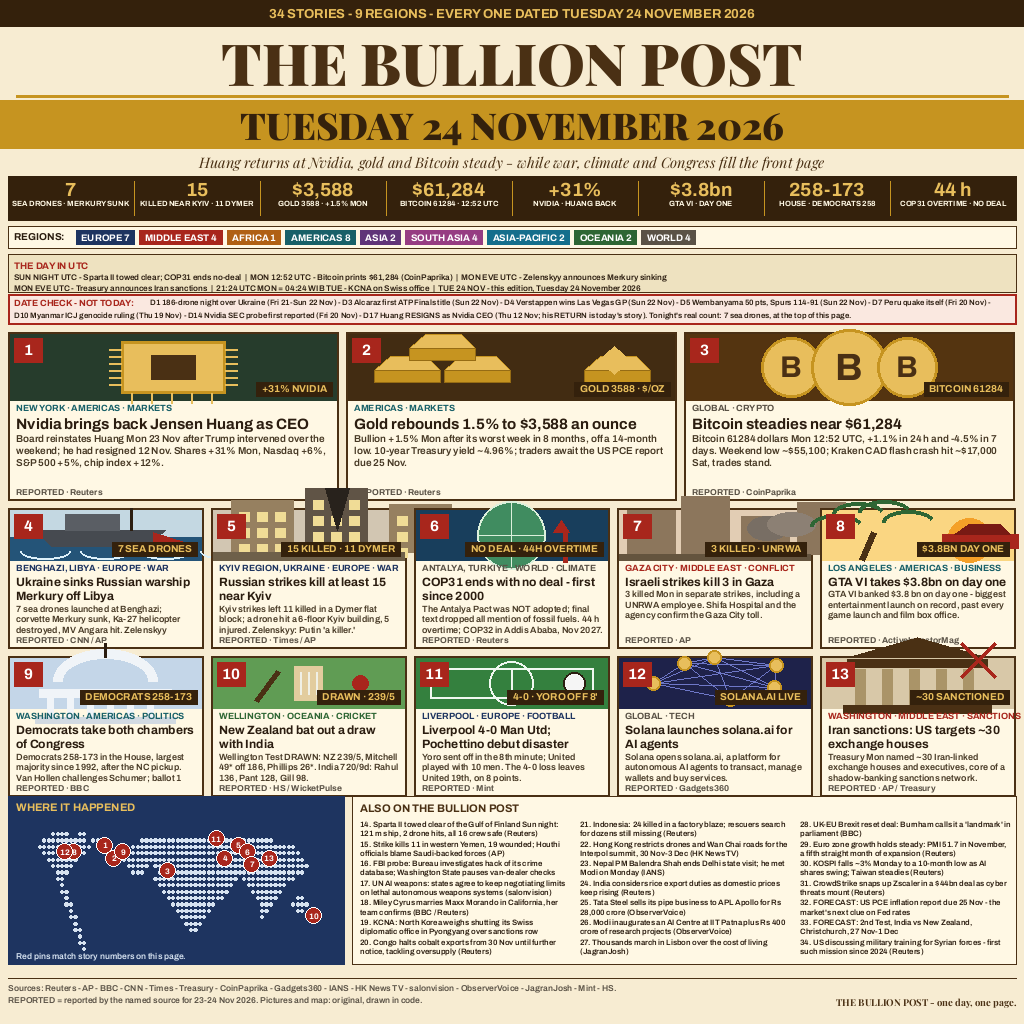
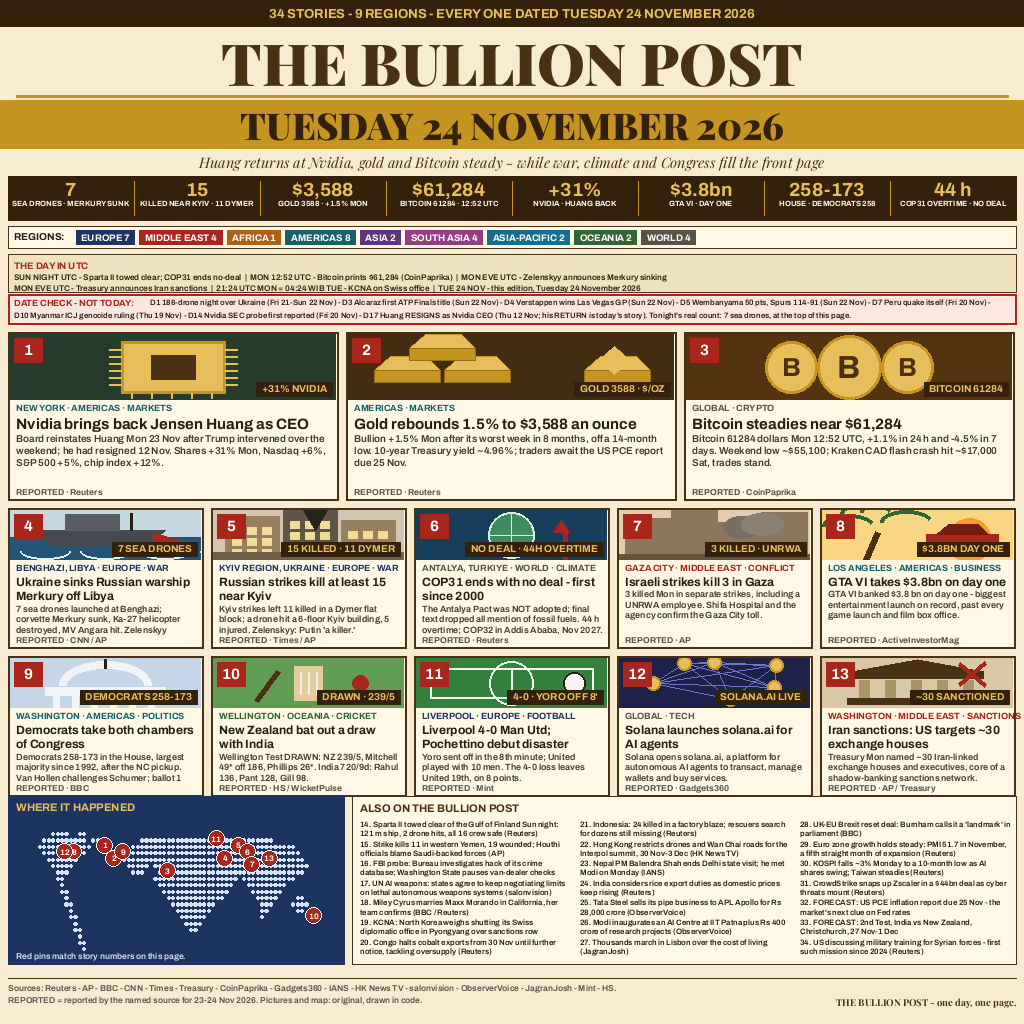
NI24 wave 2: fix scene overflow craft defects
Scenes are now rendered on a per-card layer and pasted, so no scene element can paint outside its own card strip. Rescaled the flats, bank, dome, globe, coin, palm and skyline geometry that overflowed its strip (Kyiv flats over the Gold source line, Iran bank roof over the GTA source line, bank base bar over its own kicker). Regenerated entry.png; all card text, chips and source lines now fully inside their cards.

diff --git a/compose_bullion.py b/compose_bullion.py
@@ -167,7 +167,7 @@ def scene(d, kind, x, y, w, h):
             d.line([gx - 12, gy + 8 + i * 7, gx, gy + 8 + i * 7], fill=GOLD_L, width=2)
             d.line([gx + gw, gy + 8 + i * 7, gx + gw + 12, gy + 8 + i * 7], fill=GOLD_L, width=2)
         for i in range(5):
-            d.line([gx + 10 + i * 20, gy + gh, gx + 10 + i * 20, gy + gh + 10], fill=GOLD_L, width=2)
+            d.line([gx + 10 + i * 20, gy + gh, gx + 10 + i * 20, gy + gh + 5], fill=GOLD_L, width=2)
     elif kind == "bars":
         d.rectangle([x, y, x + w, y + h], fill=(66, 44, 18))
         for bx, by, s in [(x + 26, y + h - 30, 1), (x + 96, y + h - 30, 1), (x + 61, y + h - 52, 1), (x + w - 90, y + h - 30, 1)]:
@@ -176,7 +176,7 @@ def scene(d, kind, x, y, w, h):
         d.polygon([(x + w - 60, y + 12), (x + w - 44, y + 26), (x + w - 60, y + 40), (x + w - 76, y + 26)], fill=GOLD_L)
     elif kind == "coin":
         d.rectangle([x, y, x + w, y + h], fill=(84, 52, 16))
-        for i, (ox, r) in enumerate([(-58, 30), (0, 38), (58, 30)]):
+        for i, (ox, r) in enumerate([(-58, 26), (0, 32), (58, 26)]):
             d.ellipse([cx + ox - r, cy - r, cx + ox + r, cy + r], fill=GOLD_L, outline=GOLD, width=3)
             d.text((cx + ox, cy), "B", font=F(AR_B, r), fill=BROWN, anchor="mm")
     elif kind == "ship":
@@ -188,51 +188,51 @@ def scene(d, kind, x, y, w, h):
         d.polygon([(hx, hy), (hx + 130, hy), (hx + 112, hy + 16), (hx + 16, hy + 16)], fill=(70, 74, 80))
         d.rectangle([hx + 30, hy - 16, hx + 84, hy], fill=(90, 94, 100))
         d.polygon([(hx + 118, hy + 2), (hx + 150, hy + 12), (hx + 118, hy + 14)], fill=RED)
-        d.line([hx + 96, hy - 22, hx + 96, hy], fill=INK, width=3)
+        d.line([hx + 96, hy - 17, hx + 96, hy], fill=INK, width=3)
     elif kind == "flats":
         d.rectangle([x, y, x + w, y + h], fill=(210, 198, 178))
-        for i, (bx, bh, dmg) in enumerate([(x + 18, 52, False), (x + 92, 64, True), (x + 176, 48, False)]):
-            d.rectangle([bx, y + h - bh - 8, bx + 62, y + h - 8], fill=(150, 128, 96) if not dmg else (96, 84, 70))
+        for i, (bx, bh, dmg) in enumerate([(x + 12, 36, False), (x + 70, 42, True), (x + 128, 32, False)]):
+            d.rectangle([bx, y + h - bh - 8, bx + 54, y + h - 8], fill=(150, 128, 96) if not dmg else (96, 84, 70))
             for r_ in range(3):
                 for c_ in range(3):
-                    wx, wy = bx + 8 + c_ * 18, y + h - bh + 4 + r_ * 16
-                    d.rectangle([wx, wy, wx + 10, wy + 9], fill=(240, 220, 150))
+                    wx, wy = bx + 7 + c_ * 15, y + h - bh + 3 + r_ * 11
+                    d.rectangle([wx, wy, wx + 9, wy + 7], fill=(240, 220, 150))
             if dmg:
                 d.polygon([(bx + 20, y + h - bh - 8), (bx + 44, y + h - bh - 8), (bx + 32, y + h - 30)], fill=(40, 34, 28))
         d.rectangle([x, y + h - 8, x + w, y + h], fill=(110, 96, 74))
     elif kind == "globe":
         d.rectangle([x, y, x + w, y + h], fill=(24, 62, 92))
-        d.ellipse([cx - 34, cy - 34, cx + 34, cy + 34], fill=(64, 140, 96), outline=(220, 240, 220), width=2)
-        d.ellipse([cx - 34, cy - 34, cx + 34, cy + 34], outline=(220, 240, 220), width=1)
-        d.line([cx - 34, cy, cx + 34, cy], fill=(220, 240, 220), width=1)
-        d.line([cx, cy - 34, cx, cy + 34], fill=(220, 240, 220), width=1)
+        d.ellipse([cx - 23, cy - 23, cx + 23, cy + 23], fill=(64, 140, 96), outline=(220, 240, 220), width=2)
+        d.ellipse([cx - 23, cy - 23, cx + 23, cy + 23], outline=(220, 240, 220), width=1)
+        d.line([cx - 23, cy, cx + 23, cy], fill=(220, 240, 220), width=1)
+        d.line([cx, cy - 23, cx, cy + 23], fill=(220, 240, 220), width=1)
         d.polygon([(x + w - 46, y + 10), (x + w - 38, y + 22), (x + w - 54, y + 22)], fill=RED)
         d.rectangle([x + w - 44, y + 22, x + w - 40, y + 52], fill=RED)
     elif kind == "skyline":
         d.rectangle([x, y, x + w, y + h], fill=(226, 205, 180))
-        for i, (bx, bh) in enumerate([(x + 8, 44), (x + 62, 58), (x + 122, 38), (x + 178, 52)]):
-            d.rectangle([bx, y + h - bh - 6, bx + 48, y + h - 6], fill=(140, 118, 92))
-        d.ellipse([x + 128, y + 6, x + 168, y + 30], fill=(120, 110, 100))
-        d.ellipse([x + 148, y + 2, x + 196, y + 26], fill=(140, 128, 116))
+        for i, (bx, bh) in enumerate([(x + 6, 36), (x + 52, 44), (x + 98, 32), (x + 142, 42)]):
+            d.rectangle([bx, y + h - bh - 6, bx + 46, y + h - 6], fill=(140, 118, 92))
+        d.ellipse([x + 104, y + 6, x + 140, y + 28], fill=(120, 110, 100))
+        d.ellipse([x + 122, y + 3, x + 164, y + 25], fill=(140, 128, 116))
         d.rectangle([x, y + h - 6, x + w, y + h], fill=(100, 84, 62))
     elif kind == "palm":
         d.rectangle([x, y, x + w, y + h], fill=(250, 214, 130))
         d.ellipse([x + w - 66, y + 8, x + w - 22, y + 52], fill=(244, 160, 40))
-        d.line([x + 40, y + h, x + 52, y + 22], fill=BROWN, width=6)
-        for a in [(-38, -8), (-16, -20), (10, -22), (34, -12)]:
-            d.arc([x + 52 + a[0] - 26, y + 22 + a[1] - 10, x + 52 + a[0] + 26, y + 22 + a[1] + 14], 180, 340, fill=GREEN, width=4)
-        d.rectangle([x + 120, y + h - 26, x + 196, y + h - 12], fill=RED)
-        d.polygon([(x + 132, y + h - 26), (x + 146, y + h - 36), (x + 178, y + h - 36), (x + 188, y + h - 26)], fill=(120, 26, 20))
-        d.ellipse([x + 132, y + h - 16, x + 146, y + h - 4], fill=INK)
-        d.ellipse([x + 172, y + h - 16, x + 186, y + h - 4], fill=INK)
+        d.line([x + 44, y + h, x + 56, y + 22], fill=BROWN, width=6)
+        for a in [(-30, -8), (-12, -20), (8, -22), (28, -12)]:
+            d.arc([x + 56 + a[0] - 26, y + 22 + a[1] - 10, x + 56 + a[0] + 26, y + 22 + a[1] + 14], 180, 340, fill=GREEN, width=4)
+        d.rectangle([x + 104, y + h - 26, x + 176, y + h - 12], fill=RED)
+        d.polygon([(x + 114, y + h - 26), (x + 126, y + h - 36), (x + 156, y + h - 36), (x + 166, y + h - 26)], fill=(120, 26, 20))
+        d.ellipse([x + 114, y + h - 16, x + 128, y + h - 4], fill=INK)
+        d.ellipse([x + 152, y + h - 16, x + 166, y + h - 4], fill=INK)
     elif kind == "dome":
         d.rectangle([x, y, x + w, y + h], fill=(196, 214, 232))
-        d.arc([cx - 52, cy - 34, cx + 52, cy + 30], 180, 360, fill=(240, 244, 248), width=10)
-        d.rectangle([cx - 66, cy + 6, cx + 66, cy + 14], fill=(240, 244, 248))
+        d.arc([cx - 46, cy - 22, cx + 46, cy + 26], 180, 360, fill=(240, 244, 248), width=8)
+        d.rectangle([cx - 60, cy + 4, cx + 60, cy + 12], fill=(240, 244, 248))
         for i in range(6):
-            d.rectangle([cx - 58 + i * 20, cy + 14, cx - 52 + i * 20, cy + 34], fill=(240, 244, 248))
-        d.rectangle([cx - 70, cy + 34, cx + 70, cy + 40], fill=(210, 218, 226))
-        d.line([cx, cy - 40, cx, cy - 26], fill=INK, width=3)
+            d.rectangle([cx - 52 + i * 19, cy + 12, cx - 46 + i * 19, cy + 30], fill=(240, 244, 248))
+        d.rectangle([cx - 64, cy + 30, cx + 64, cy + 36], fill=(210, 218, 226))
+        d.line([cx, cy - 24, cx, cy - 15], fill=INK, width=3)
     elif kind == "cricket":
         d.rectangle([x, y, x + w, y + h], fill=(96, 156, 84))
         d.rectangle([cx - 14, y + 8, cx + 14, y + h - 8], fill=(226, 204, 158))
@@ -249,7 +249,7 @@ def scene(d, kind, x, y, w, h):
         d.ellipse([cx + 52, cy - 11, cx + 74, cy + 11], fill=(245, 245, 245), outline=INK, width=2)
     elif kind == "nodes":
         d.rectangle([x, y, x + w, y + h], fill=(30, 34, 74))
-        pts = [(x + 34, cy), (cx - 30, cy - 20), (cx + 16, cy + 16), (cx + 62, cy - 18), (x + w - 36, cy + 4), (cx, cy - 26)]
+        pts = [(x + 34, cy), (cx - 30, cy - 20), (cx + 16, cy + 16), (cx + 62, cy - 18), (x + w - 36, cy + 4), (cx, cy - 21)]
         for i in range(len(pts)):
             for j in range(i + 1, len(pts)):
                 d.line([pts[i], pts[j]], fill=(110, 120, 200), width=1)
@@ -257,20 +257,25 @@ def scene(d, kind, x, y, w, h):
             d.ellipse([p[0] - 7, p[1] - 7, p[0] + 7, p[1] + 7], fill=GOLD_L, outline=GOLD, width=2)
     elif kind == "bank":
         d.rectangle([x, y, x + w, y + h], fill=(216, 200, 168))
-        d.polygon([(cx - 70, cy - 26), (cx + 70, cy - 26), (cx, cy - 46)], fill=BROWN)
-        d.rectangle([cx - 70, cy - 24, cx + 70, cy - 16], fill=BROWN)
+        d.polygon([(cx - 66, cy - 12), (cx + 66, cy - 12), (cx, cy - 24)], fill=BROWN)
+        d.rectangle([cx - 66, cy - 11, cx + 66, cy - 5], fill=BROWN)
         for i in range(5):
-            d.rectangle([cx - 62 + i * 27, cy - 14, cx - 52 + i * 27, cy + 22], fill=(170, 148, 104))
-        d.rectangle([cx - 74, cy + 22, cx + 74, cy + 30], fill=BROWN)
-        d.line([cx + 44, cy - 40, cx + 78, cy - 6], fill=RED, width=4)
-        d.line([cx + 78, cy - 40, cx + 44, cy - 6], fill=RED, width=4)
+            d.rectangle([cx - 58 + i * 26, cy - 3, cx - 48 + i * 26, cy + 15], fill=(170, 148, 104))
+        d.rectangle([cx - 70, cy + 15, cx + 70, cy + 21], fill=BROWN)
+        d.line([cx + 42, cy - 20, cx + 68, cy + 2], fill=RED, width=4)
+        d.line([cx + 68, cy - 20, cx + 42, cy + 2], fill=RED, width=4)
 
 # ---------------- CARD ----------------
-def card(d, key, disp, x, y, w, h, lead=False):
+def card(img, d, key, disp, x, y, w, h, lead=False):
     num, bucket, kick, head, deck, chip, tag, sc = CARDS[key]
     d.rectangle([x, y, x + w, y + h], fill=CREAM, outline=BROWN, width=2)
     sh = 66 if lead else 50
-    scene(d, sc, x + 2, y + 2, w - 4, sh)
+    # scene is rendered on its own layer and pasted: nothing a scene draws
+    # can ever escape its strip and paint over a neighbouring card
+    layer = Image.new("RGB", (w - 4, sh), PAPER)
+    scene(ImageDraw.Draw(layer), sc, 0, 0, w - 4, sh)
+    img.paste(layer, (x + 2, y + 2))
+    d.rectangle([x, y, x + w, y + h], outline=BROWN, width=2)
     d.rectangle([x + 6, y + 6, x + 34, y + 30], fill=RED)
     d.text((x + 20, y + 18), str(disp), font=F(AR_B, 15), fill=(255, 255, 255), anchor="mm")
     cw = d.textlength(chip, font=F(AR_B, 10))
@@ -400,13 +405,13 @@ def build(variant, out):
     ly, lh = 332, 168
     lw = (W - 32) // 3
     for i, k in enumerate(leads):
-        card(d, k, i + 1, 8 + i * (lw + 8), ly, lw, lh, lead=True)
+        card(img, d, k, i + 1, 8 + i * (lw + 8), ly, lw, lh, lead=True)
     # grid
     gy, gh = 508, 140
     gw = (W - 48) // 5
     for i, k in enumerate(grid):
         r_, c_ = divmod(i, 5)
-        card(d, k, 4 + i, 8 + c_ * (gw + 8), gy + r_ * (gh + 8), gw, gh)
+        card(img, d, k, 4 + i, 8 + c_ * (gw + 8), gy + r_ * (gh + 8), gw, gh)
     # bottom band
     by = 796
     pins = []
